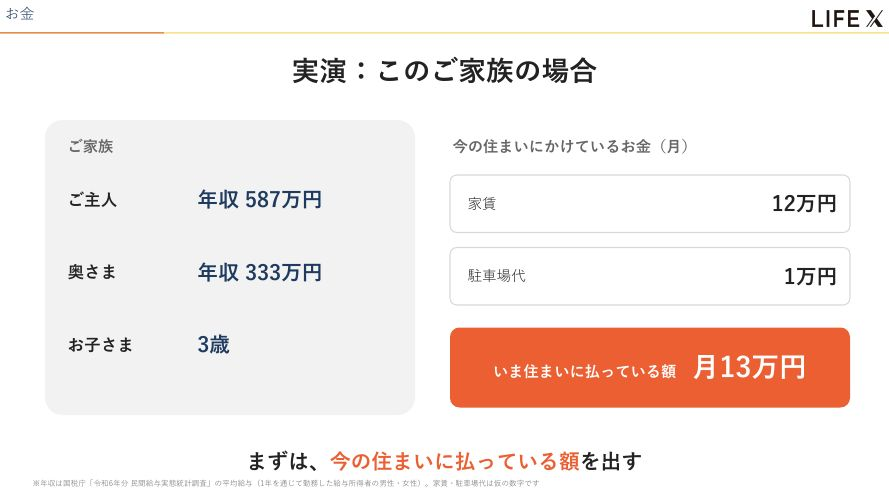
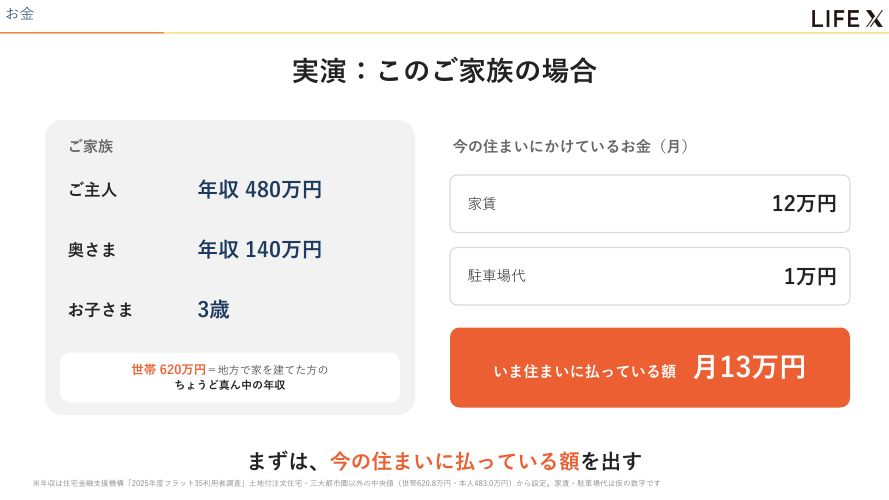
更新：実演の年収を地方で家を建てた方の中央値に

diff --git a/webinar-kousei-20261120.html b/webinar-kousei-20261120.html
@@ -117,8 +117,8 @@ var NEW={
  N12:["選んだプランがはまる土地の見方","120プランの間口・奥行きから、合う土地の大きさがわかる。"],
  N13:["ご相談のご案内①：ここまでの話を、あなたの家で確かめる","お金の章の前に一度。最後まで見ない方もここで拾う。"],
  N14:["予算は「借りられる額」ではなく「返せる額」","借りられる上限で組むと、暮らしが苦しくなる。（草案）"],
- N15:["1家族の実演①：家計","夫587万円・妻333万円（国税庁「令和6年分 民間給与実態統計調査」の男女別平均給与）・子ども3歳。出発点は今の住まいに払っている額 月13万円（家賃12万＋駐車場代1万・仮）。"],
- N16:["1家族の実演②：返済","借りられる額 約9,510万円（世帯920万円×返済負担率35%）と、返せる額 約4,610万円（月13万円）。金利1.0%・35年は仮。"],
+ N15:["1家族の実演①：家計","夫480万円・妻140万円・子ども3歳。世帯620万円は、地方（三大都市圏以外）で土地を買って注文住宅を建てた方の世帯年収のちょうど真ん中（住宅金融支援機構「2025年度フラット35利用者調査」の中央値620.8万円、本人483.0万円）。出発点は今の住まいに払っている額 月13万円（家賃12万＋駐車場代1万・仮）。"],
+ N16:["1家族の実演②：返済","借りられる額 約6,410万円（世帯620万円×返済負担率35%）と、返せる額 約4,610万円（月13万円＝年収の約25%。地方で実際に建てた方の平均25.7%とほぼ同じ）。金利1.0%・35年は仮。"],
  N17:["1家族の実演③：総額","返せる額から逆算した、建物と土地にかけられる総額。"],
  N18:["総額の内訳","建物本体・付帯工事・土地・諸費用。付帯工事と地域の仕様は、近くの加盟店様でお出しする。"],
  N19:["ご相談でわかる3つのこと","①選んだプランが土地・エリアにはまるか　②ご家族ごとの総額と月々の返済　③はまる土地の探し方"],
